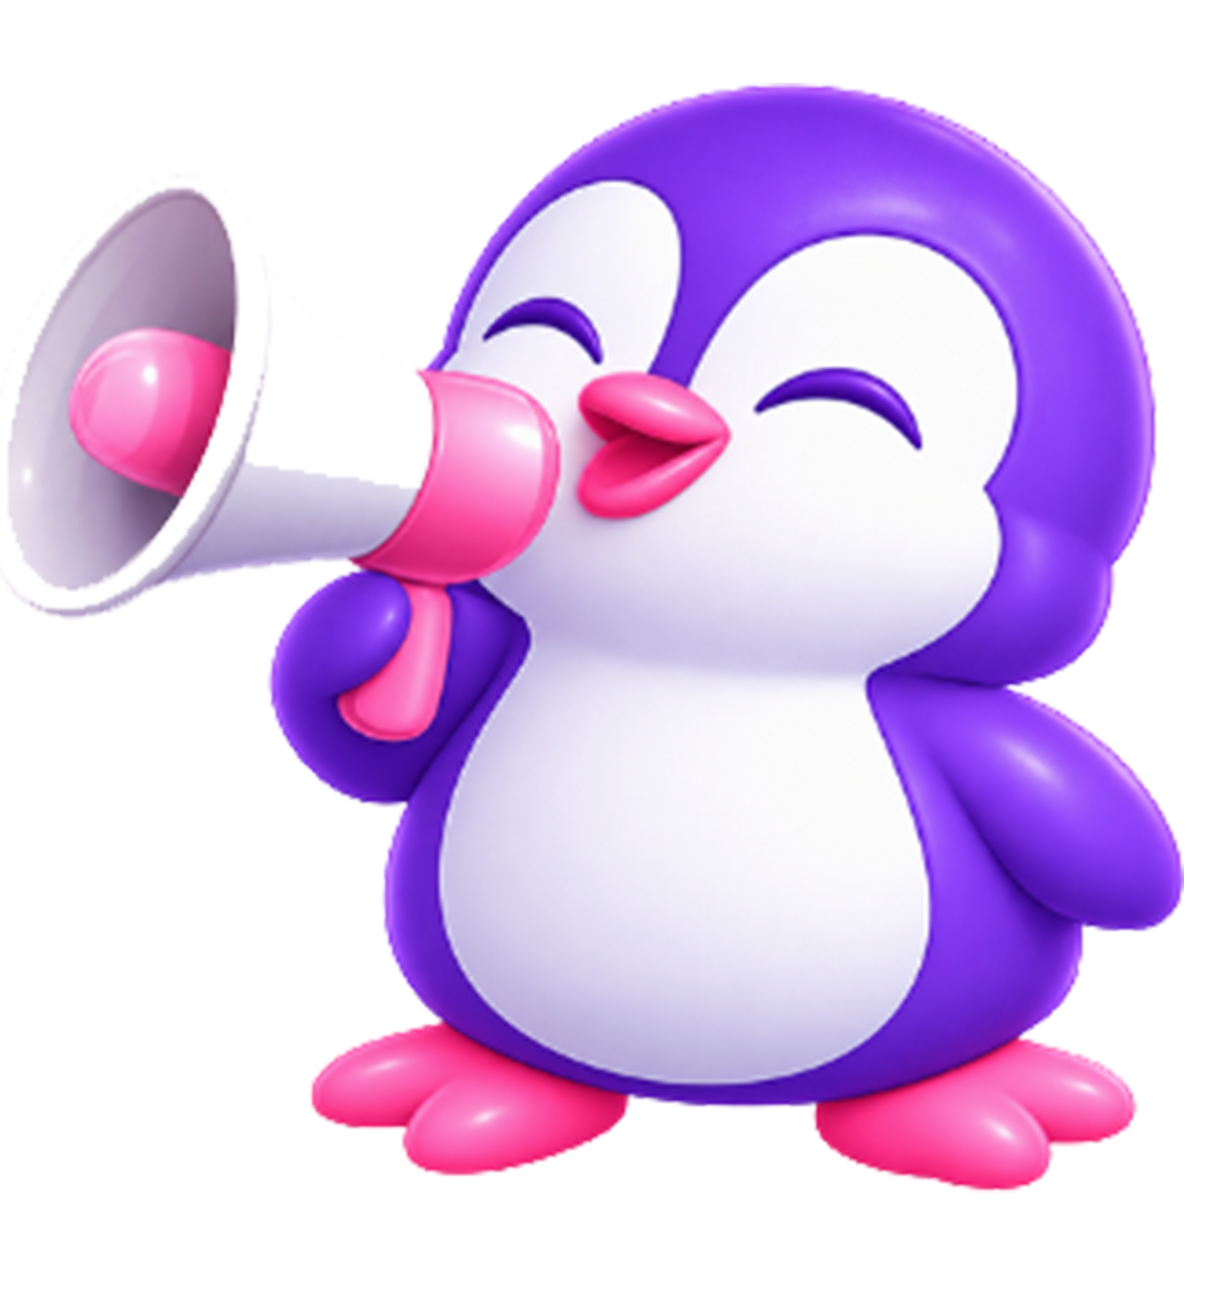
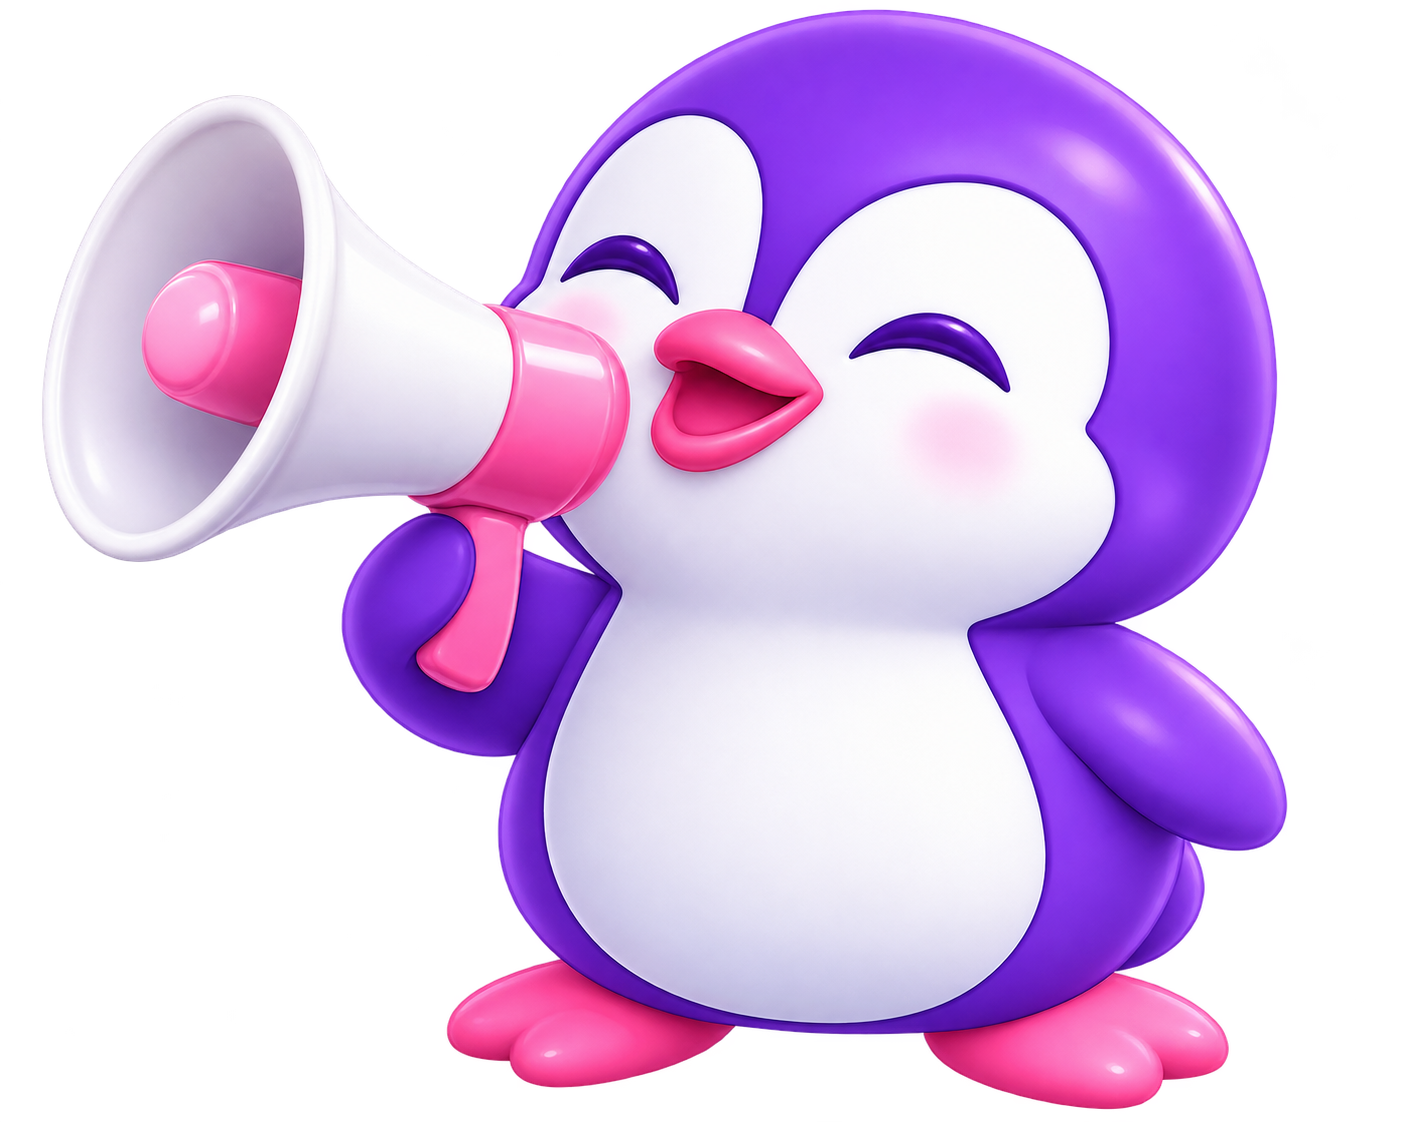
changes

diff --git a/src/components/Navbar.jsx b/src/components/Navbar.jsx
@@ -37,13 +37,22 @@ export default function Navbar() {
   return (
     <nav 
       className={`w-full bg-[#000000]/95 backdrop-blur-md border-b-2 border-[#FFD700] sticky top-0 z-50 transition-all duration-300 ease-in-out ${
-        isScrolled ? 'pt-7 pb-2 shadow-[0_10px_25px_rgba(0,0,0,0.9)]' : 'pt-9 pb-3 shadow-[0_5px_20px_rgba(0,0,0,0.7)]'
+        isScrolled ? 'py-3 shadow-[0_10px_25px_rgba(0,0,0,0.9)]' : 'py-5 shadow-[0_5px_20px_rgba(0,0,0,0.7)]'
       }`}
     >
-      <div className="max-w-6xl mx-auto flex items-center justify-center px-4">
+      <div className="max-w-7xl mx-auto flex items-center justify-between px-6">
         
-        {/* Navigation Items */}
-        <div className="flex items-center justify-center gap-6 md:gap-10 flex-wrap">
+        {/* Brand Logo Header Left Side */}
+        <Link to="/" className="flex items-center gap-3 group">
+          <img 
+            src="/logo.png" 
+            alt="Kalavora Logo" 
+            className="h-10 md:h-12 w-auto object-contain drop-shadow-[0_0_12px_rgba(252,91,218,0.5)] group-hover:scale-105 transition-transform duration-300" 
+          />
+        </Link>
+
+        {/* Navigation Items Right Side */}
+        <div className="flex items-center justify-center gap-6 md:gap-8 flex-wrap">
           {navItems.map((item, index) => {
             const isHovered = hoveredIndex === index;
             const isActive = location.pathname === item.path;
